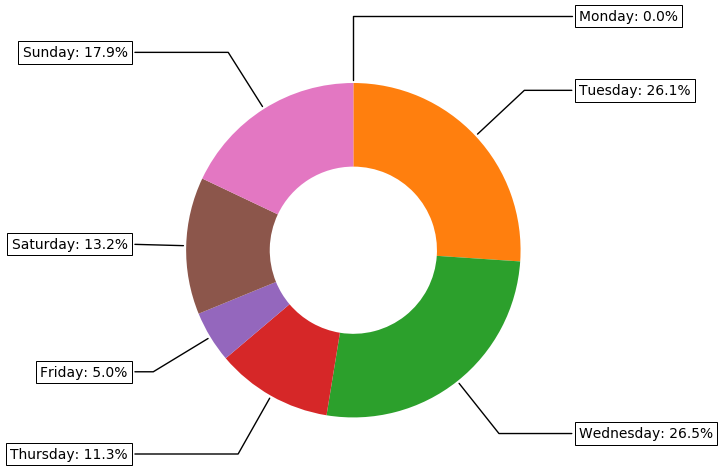
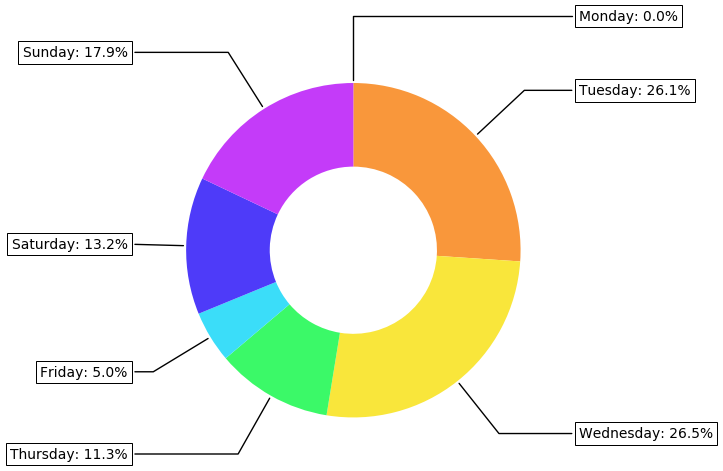
Now with nice colours

Changed region(s): [[0.2434, 0.1783, 0.7303, 0.8917]]

diff --git a/graphs/PieChart.py b/graphs/PieChart.py
@@ -16,11 +16,13 @@ def _make_display_label(label, data, i):
 
 def make_pie_chart(labels,
                    data,
+                   colours,
                    filename):
     labels = labels
     patches, texts = plt.pie(data,
                              wedgeprops=dict(width=0.5),
                              startangle=90,
+                             colors=colours,
                              counterclock=False)
 
     bbox_props = dict(boxstyle="square,pad=0.3", fc="w", ec="k", lw=0.72)

diff --git a/visualise_data/day_of_week/day_of_week_pie.py b/visualise_data/day_of_week/day_of_week_pie.py
@@ -14,10 +14,21 @@ from visualise_data.day_of_week.manager import to_hours
 from visualise_data.day_of_week.manager import labels
 
 
+def _colours():
+    return ["#f93b3b",
+            "#f9973b",
+            "#f9e63b",
+            "#3bf968",
+            "#3bddf9",
+            "#4e3bf9",
+            "#c43bf9"]
+
+
 def _make_pie_chart(data, filename):
     make_pie_chart(
         labels=labels(),
         data=data,
+        colours=_colours(),
         filename=filename)
 
 
